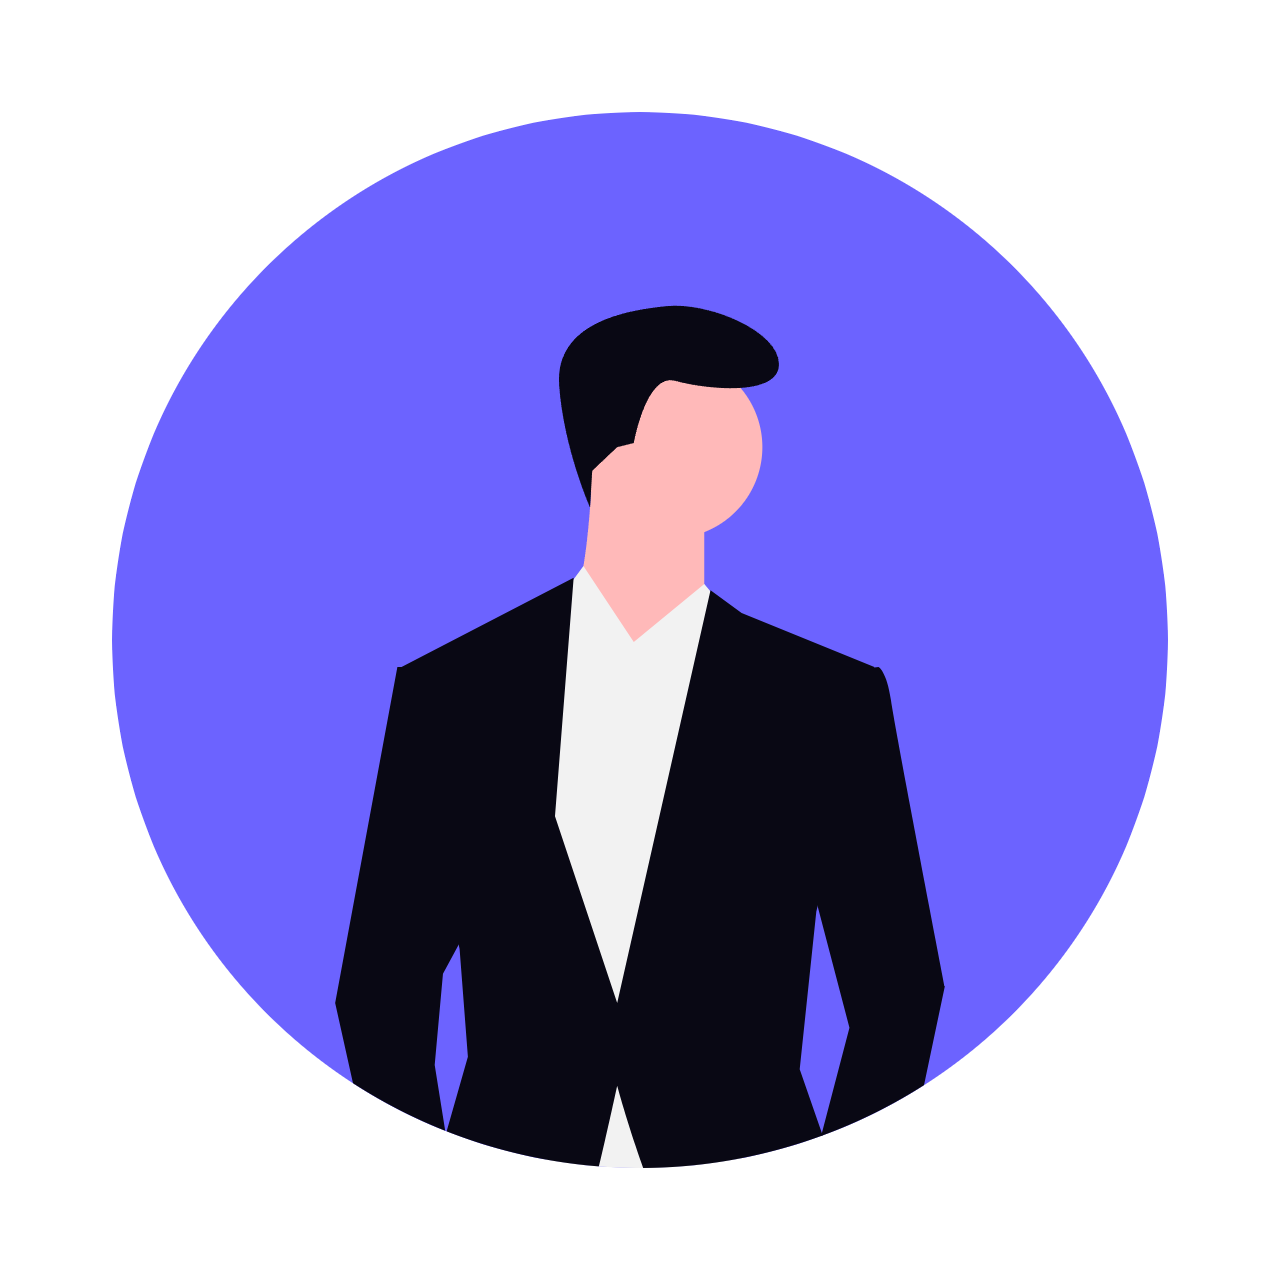
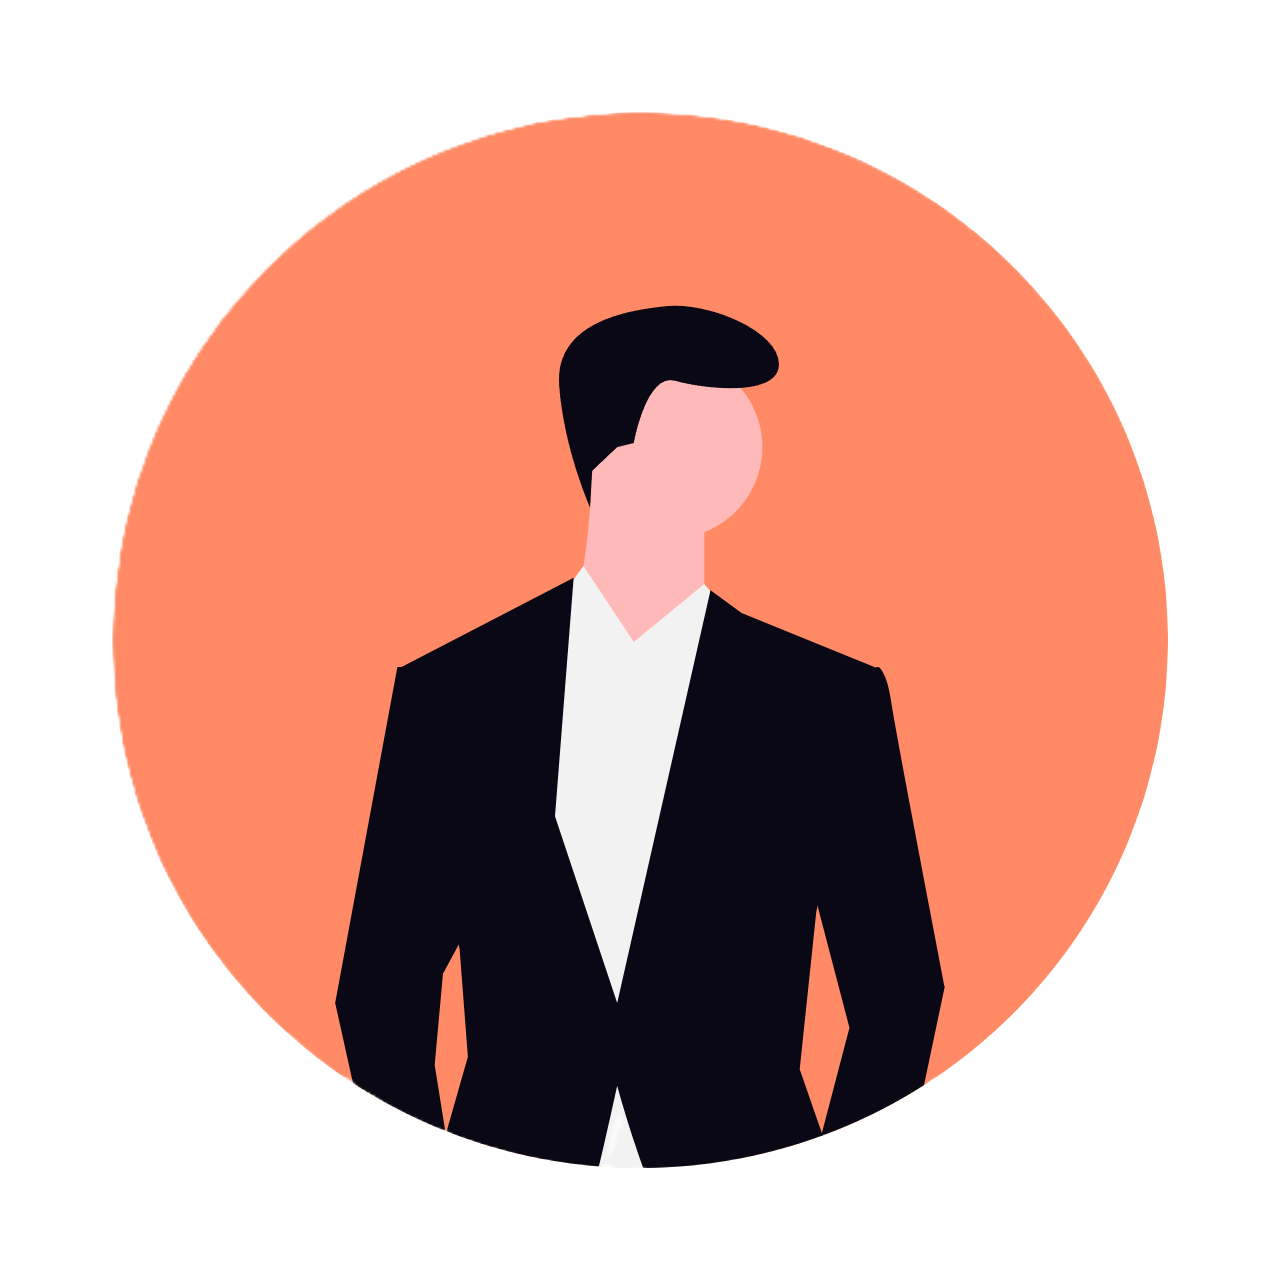
UI: whole theme refined; animations added

diff --git a/lib/screens/home_screen.dart b/lib/screens/home_screen.dart
@@ -1,5 +1,7 @@
 import 'package:arya/theme/app_theme.dart';
+import 'package:arya/widgets/feature_box.dart';
 import 'package:flutter/material.dart';
+import 'package:lottie/lottie.dart';
 
 class HomeScreen extends StatefulWidget {
   const HomeScreen({super.key});
@@ -14,15 +16,26 @@ class _HomeScreenState extends State<HomeScreen> {
     return Scaffold(
       appBar: AppBar(
         centerTitle: true,
-        title: const Text("A R Y A"),
+        title: const Text(
+          "A R Y A",
+          style: TextStyle(color: MyAppTheme.mainFontColor),
+        ),
         leading: Builder(
           builder: (BuildContext context) {
             return IconButton(
-              icon: const Icon(Icons.menu_rounded),
+              iconSize: 45,
+              icon: SizedBox(
+                width: 35,
+                height: 35,
+                child: Lottie.asset(
+                  'assets/images/Fire.json',
+                  fit: BoxFit.contain,
+                  repeat: true,
+                  animate: true,
+                ),
+              ),
               onPressed: () {
-                // Open the drawer
                 debugPrint("Menu button pressed");
-                //FIXME: this need to be fixed to open drawer
                 Scaffold.of(context).openDrawer();
               },
               tooltip: MaterialLocalizations.of(context).openAppDrawerTooltip,
@@ -35,15 +48,37 @@ class _HomeScreenState extends State<HomeScreen> {
           Stack(
             children: [
               Center(
-                child: Container(
-                  height: 135,
-                  width: double.infinity,
-                  decoration: BoxDecoration(
-                    shape: BoxShape.circle,
-                    image: DecorationImage(
-                      image: AssetImage("assets/images/arya-final.png"),
-                      fit: BoxFit.contain,
-                    ),
+                child: SizedBox(
+                  width: 200,
+                  height: 200,
+                  child: Stack(
+                    alignment: Alignment.center,
+                    children: [
+                      // Lottie JSON animation behind the avatar
+                      Positioned.fill(
+                        child: Opacity(
+                          opacity: 0.9,
+                          child: Lottie.asset(
+                            'assets/images/Fire.json',
+                            fit: BoxFit.contain,
+                            repeat: true,
+                            animate: true,
+                          ),
+                        ),
+                      ),
+
+                      // Circular avatar on top (moved down slightly)
+                      Positioned(
+                        top: 88,
+                        child: CircleAvatar(
+                          radius: 60,
+                          backgroundImage: AssetImage(
+                            'assets/images/arya-final.png',
+                          ),
+                          backgroundColor: Colors.transparent,
+                        ),
+                      ),
+                    ],
                   ),
                 ),
               ),
@@ -84,6 +119,18 @@ class _HomeScreenState extends State<HomeScreen> {
                 fontWeight: FontWeight.w600,
               ),
             ),
+          ),
+
+          //features list
+          Column(
+            children: [
+              MyFeatureBox(
+                color: MyAppTheme.firstSuggestionBoxColor,
+                headerText: 'ChatGPT Integration',
+                descriptionText:
+                    'Integrate ChatGPT into your applications seamlessly.',
+              ),
+            ],
           ),
 
           // some suggestion boxes texts

diff --git a/lib/theme/app_theme.dart b/lib/theme/app_theme.dart
@@ -1,13 +1,24 @@
 import 'package:flutter/material.dart';
 
 class MyAppTheme {
-  static const Color mainFontColor = Color.fromRGBO(19, 61, 95, 1);
-  static const Color firstSuggestionBoxColor = Color.fromRGBO(165, 231, 244, 1);
-  static const Color secondSuggestionBoxColor =
-      Color.fromRGBO(157, 202, 235, 1);
-  static const Color thirdSuggestionBoxColor = Color.fromRGBO(162, 238, 239, 1);
-  static const Color assistantCircleColor = Color.fromRGBO(209, 243, 249, 1);
-  static const Color borderColor = Color.fromRGBO(200, 200, 200, 1);
+  // Deep orange-red for primary text (futuristic cyberpunk vibe)
+  static const Color mainFontColor = Color.fromRGBO(255, 87, 51, 1);
+
+  // Vibrant coral orange for first suggestion box
+  static const Color firstSuggestionBoxColor = Color.fromRGBO(255, 138, 101, 1);
+
+  // Warm amber orange for second suggestion box
+  static const Color secondSuggestionBoxColor = Color.fromRGBO(255, 171, 64, 1);
+
+  // Bright tangerine for third suggestion box
+  static const Color thirdSuggestionBoxColor = Color.fromRGBO(255, 152, 67, 1);
+
+  // Soft peach glow for assistant circle
+  static const Color assistantCircleColor = Color.fromRGBO(255, 195, 160, 1);
+
+  // Muted orange border for subtle contrast
+  static const Color borderColor = Color.fromRGBO(255, 138, 101, 0.5);
+
   static const Color blackColor = Colors.black;
   static const Color whiteColor = Colors.white;
 }

diff --git a/lib/widgets/feature_box.dart b/lib/widgets/feature_box.dart
@@ -1,0 +1,50 @@
+import 'package:flutter/material.dart';
+
+class MyFeatureBox extends StatelessWidget {
+  final Color? color;
+  final String headerText;
+  final String descriptionText;
+  const MyFeatureBox({
+    super.key,
+    required this.color,
+    required this.headerText,
+    required this.descriptionText,
+  });
+
+  @override
+  Widget build(BuildContext context) {
+    return Container(
+      margin: const EdgeInsets.symmetric(vertical: 10.0, horizontal: 35.0),
+      decoration: BoxDecoration(
+        color: color,
+        borderRadius: BorderRadius.circular(15.0),
+        boxShadow: [
+          BoxShadow(
+            color: const Color.fromARGB(86, 158, 158, 158),
+            spreadRadius: 2,
+            blurRadius: 5,
+            offset: const Offset(0, 3),
+          ),
+        ],
+      ),
+      child: Padding(
+        padding: const EdgeInsets.all(8.0),
+        child: Column(
+          children: [
+            Text(
+              headerText,
+              style: TextStyle(fontFamily: 'Cera Pro', fontSize: 18),
+            ),
+            Padding(
+              padding: const EdgeInsets.all(8.0),
+              child: Text(
+                descriptionText,
+                style: TextStyle(fontFamily: 'Cera Pro', fontSize: 14),
+              ),
+            ),
+          ],
+        ),
+      ),
+    );
+  }
+}
